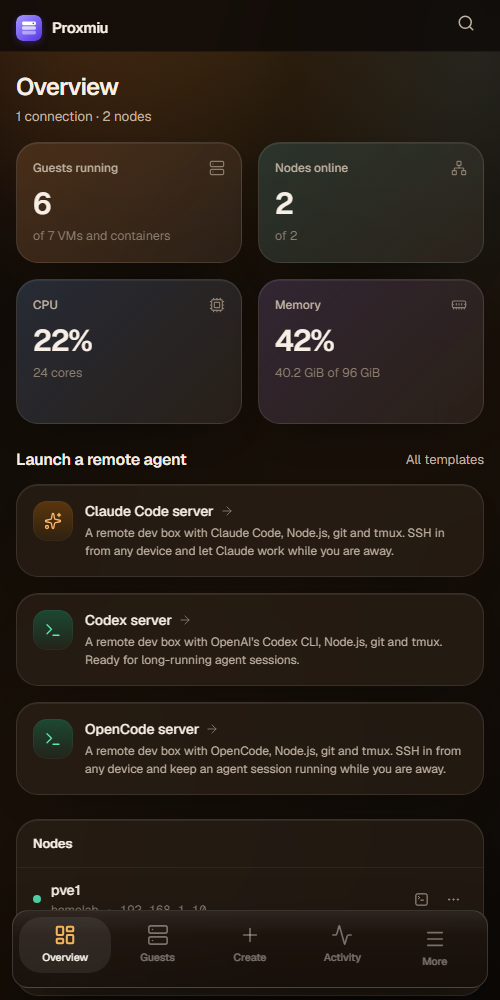
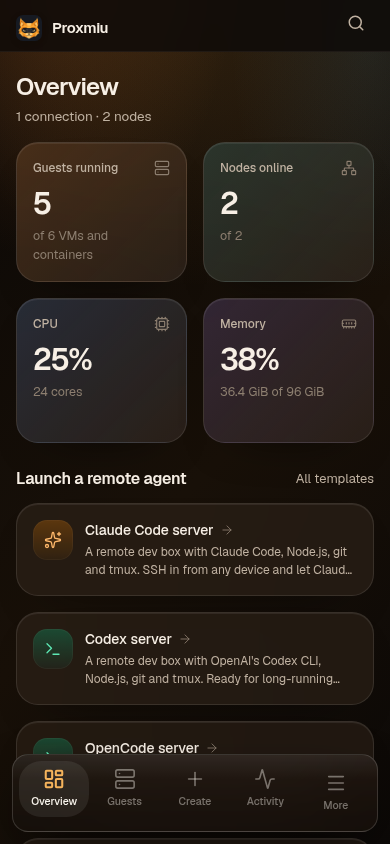
Refresh app screenshots and add hidden lynx mascot

diff --git a/lynx-easter-egg.js b/lynx-easter-egg.js
@@ -1,0 +1,110 @@
+(() => {
+  let clicks = 0
+  let lastClick = 0
+
+  const css = `
+    #proxmiu-lynx { position:fixed; right:max(20px,env(safe-area-inset-right)); bottom:24px; z-index:45; width:184px; color:#f5f1e9; font:13px/1.45 system-ui,sans-serif; animation:lynx-arrive .45s cubic-bezier(.16,1,.3,1) both; }
+    #proxmiu-lynx * { box-sizing:border-box; }
+    #proxmiu-lynx .lynx-message { position:relative; margin:0 0 -5px; padding:12px 30px 12px 14px; border-radius:16px 16px 4px 16px; background:#252a34; box-shadow:0 8px 28px #0003; min-height:60px; }
+    #proxmiu-lynx button { appearance:none; border:0; color:inherit; cursor:pointer; font:inherit; }
+    #proxmiu-lynx button:focus-visible { outline:2px solid #f0a23a; outline-offset:4px; }
+    #proxmiu-lynx .lynx-close { position:absolute; right:5px; top:5px; width:30px; height:30px; padding:7px; border-radius:50%; background:transparent; color:#d5d0c8; }
+    #proxmiu-lynx .lynx-close:hover { background:#ffffff14; }
+    #proxmiu-lynx .lynx-pet { display:block; width:160px; height:152px; padding:0; margin:0 auto; background:transparent; -webkit-tap-highlight-color:transparent; }
+    #proxmiu-lynx .lynx-pet>svg { width:160px; height:150px; overflow:visible; filter:drop-shadow(0 8px 5px #0002); }
+    #proxmiu-lynx .lynx-tail { transform-origin:104px 111px; animation:lynx-tail 3.5s ease-in-out infinite; }
+    #proxmiu-lynx .lynx-head { transform-origin:80px 98px; animation:lynx-nod 5s ease-in-out infinite; }
+    #proxmiu-lynx .lynx-eyes { transform-box:fill-box; transform-origin:center; animation:lynx-blink 5.5s infinite; }
+    #proxmiu-lynx .lynx-led { animation:lynx-led 3s ease-in-out infinite; }
+    #proxmiu-lynx.is-petted .lynx-head { animation:lynx-purr .8s ease-in-out; }
+    #proxmiu-lynx.is-petted .lynx-tail { animation:lynx-tail .35s ease-in-out infinite; }
+    @keyframes lynx-arrive { from { opacity:0; transform:translateY(18px) rotate(3deg); } to { opacity:1; transform:translateY(0) rotate(0); } }
+    @keyframes lynx-tail { 0%,100% { transform:rotate(-8deg); } 50% { transform:rotate(13deg); } }
+    @keyframes lynx-nod { 0%,65%,100% { transform:rotate(0); } 78%,90% { transform:rotate(-5deg) translateY(-2px); } }
+    @keyframes lynx-blink { 0%,43%,47%,100% { transform:scaleY(1); } 45% { transform:scaleY(.08); } }
+    @keyframes lynx-led { 0%,100% { opacity:.65; } 50% { opacity:1; } }
+    @keyframes lynx-purr { 0%,100% { transform:rotate(0); } 25%,75% { transform:rotate(-7deg) translateY(-3px); } 50% { transform:rotate(7deg) translateY(-3px); } }
+    @media(max-width:639px) { #proxmiu-lynx { right:max(16px,env(safe-area-inset-right)); bottom:calc(104px + env(safe-area-inset-bottom)); } #proxmiu-lynx .lynx-close { width:36px; height:36px; top:2px; right:2px; } #proxmiu-lynx .lynx-message { padding-right:38px; } }
+    @media(prefers-reduced-motion:reduce) { #proxmiu-lynx, #proxmiu-lynx * { animation:none !important; transition:none !important; } }
+  `
+
+  function wake(trigger) {
+    const existing = document.getElementById('proxmiu-lynx')
+    if (existing) {
+      existing.querySelector('.lynx-pet').click()
+      return
+    }
+    if (!document.getElementById('proxmiu-lynx-style')) {
+      const style = document.createElement('style')
+      style.id = 'proxmiu-lynx-style'
+      style.textContent = css
+      document.head.append(style)
+    }
+    const panel = document.createElement('aside')
+    panel.id = 'proxmiu-lynx'
+    panel.setAttribute('aria-label', 'Proxmiu lynx')
+    panel.innerHTML = `
+      <p class="lynx-message" role="status">Oh, hi. I live here.</p>
+      <button type="button" class="lynx-close" aria-label="Dismiss lynx"><svg viewBox="0 0 16 16" fill="none" stroke="currentColor" stroke-width="1.7" aria-hidden="true"><path d="m4 4 8 8M12 4l-8 8"/></svg></button>
+      <button type="button" class="lynx-pet" aria-label="Pet the lynx">
+        <svg viewBox="0 0 160 150" fill="none" aria-hidden="true">
+          <ellipse cx="80" cy="136" rx="40" ry="5" fill="#171b23" opacity=".18"/>
+          <g class="lynx-tail"><path d="M105 113c38 4 48-29 31-37" stroke="#e38a24" stroke-width="13" stroke-linecap="round"/><path d="M140 82q0-5-4-6" stroke="#252a34" stroke-width="13" stroke-linecap="round"/></g>
+          <ellipse cx="80" cy="113" rx="33" ry="22" fill="#e38a24"/>
+          <path d="M67 101h26l-5 30H72l-5-30Z" fill="#ffd184"/>
+          <rect x="52" y="117" width="17" height="19" rx="8" fill="#f0a23a"/>
+          <rect x="91" y="117" width="17" height="19" rx="8" fill="#f0a23a"/>
+          <path d="M54 133h13m26 0h13" stroke="#252a34" stroke-width="5" stroke-linecap="round"/>
+          <g class="lynx-head"><g transform="translate(28 7) scale(1.65)">
+            <path d="m12 8 14 14h12L52 8l3 24 5 9-5-1 2 10-6-3-7 9-5-1-7 4-7-4-5 1-7-9-6 3 2-10-5 1 5-9 3-24Z" fill="#f0a23a"/>
+            <path d="m14 15 10 12-11 5 1-17Zm36 0L40 27l11 5-1-17Z" fill="#ffd184"/>
+            <path d="m12 8 14 14 6 11-12-8-8-17Zm40 0L38 22l-6 11 12-8 8-17Z" fill="#ffb640"/>
+            <path d="m19 30 10 3h6l10-3 8 9-7 7-8 2-6-3-6 3-8-2-7-7 8-9Z" fill="#171b23"/>
+            <g class="lynx-eyes"><path d="m17 36 7 2 3 4c-6 1-8-1-10-6Zm30 0-7 2-3 4c6 1 8-1 10-6Z" fill="#ffe1a3"/></g>
+            <rect x="29" y="33" width="6" height="3" rx="1" fill="#54504a"/><rect x="29" y="38" width="6" height="3" rx="1" fill="#54504a"/>
+            <circle class="lynx-led" cx="34" cy="34.5" r="1.2" fill="#39d8c2"/>
+            <path d="m25 48 7 3 7-3-2 7-5 3-5-3-2-7Z" fill="#ffd184"/><path d="m28 49 4 4 4-4h-8Z" fill="#171b23"/>
+          </g></g>
+        </svg>
+      </button>`
+    document.body.append(panel)
+    let purrTimer
+    const dismiss = () => {
+      const restoreFocus = panel.contains(document.activeElement)
+      clearTimeout(purrTimer)
+      panel.remove()
+      document.removeEventListener('keydown', onKey)
+      if (restoreFocus && trigger.isConnected) trigger.focus({ preventScroll: true })
+    }
+    const onKey = (event) => { if (event.key === 'Escape') dismiss() }
+    panel.querySelector('.lynx-close').addEventListener('click', dismiss)
+    panel.querySelector('.lynx-pet').addEventListener('click', () => {
+      panel.querySelector('.lynx-message').textContent = 'Purr. All systems cozy.'
+      panel.classList.add('is-petted')
+      clearTimeout(purrTimer)
+      purrTimer = setTimeout(() => panel.classList.remove('is-petted'), 800)
+    })
+    document.addEventListener('keydown', onKey)
+  }
+
+  document.addEventListener('click', (event) => {
+    if (!(event.target instanceof Element) || event.metaKey || event.ctrlKey || event.altKey || event.shiftKey || event.button !== 0) return
+    const trigger = event.target.closest('[data-lynx-trigger]')
+    if (!trigger) return
+    if (trigger instanceof HTMLAnchorElement) {
+      const target = new URL(trigger.href)
+      if (target.origin === location.origin && target.pathname === location.pathname && !target.hash) {
+        event.preventDefault()
+        if (location.href !== target.href) history.replaceState(null, '', target.href)
+        window.scrollTo({ top: 0, behavior: 'instant' })
+      }
+    }
+    const now = performance.now()
+    clicks = now - lastClick > 1400 ? 1 : clicks + 1
+    lastClick = now
+    if (clicks >= 5) {
+      clicks = 0
+      wake(trigger)
+    }
+  })
+})()

diff --git a/index.html b/index.html
@@ -18,11 +18,11 @@
       property="og:description"
       content="Power actions, browser SSH, and ready-to-use AI dev boxes from templates. Self-hosted on your LAN."
     />
-    <meta property="og:image" content="https://proxmiu.com/screenshots/overview.png?v=8" />
+    <meta property="og:image" content="https://proxmiu.com/screenshots/overview.png?v=9" />
     <meta name="twitter:card" content="summary_large_image" />
     <meta name="twitter:title" content="Proxmiu — manage Proxmox VE from the browser" />
     <meta name="twitter:description" content="Power actions, browser SSH, and ready-to-use AI dev boxes from templates. Self-hosted on your LAN." />
-    <meta name="twitter:image" content="https://proxmiu.com/screenshots/overview.png?v=8" />
+    <meta name="twitter:image" content="https://proxmiu.com/screenshots/overview.png?v=9" />
     <link rel="icon" type="image/svg+xml" href="favicon.svg?v=lynx-1" />
     <link rel="apple-touch-icon" href="apple-touch-icon.png?v=lynx-1" />
     <link rel="stylesheet" href="styles.css" />
@@ -32,7 +32,7 @@
 
     <header class="nav-wrap">
       <nav class="nav">
-        <a class="brand" href="./" aria-label="Proxmiu home">
+        <a class="brand" href="./" aria-label="Proxmiu home" data-lynx-trigger>
           <img src="logo.png" alt="" width="28" height="28" />
           <span>Proxmiu</span>
         </a>
@@ -70,7 +70,7 @@
 
       <section class="hero-stage">
         <div class="hero-shot">
-          <img src="screenshots/overview.png?v=8" alt="Proxmiu overview showing nodes, guests and live resource usage" />
+          <img src="screenshots/overview.png?v=9" alt="Proxmiu overview showing nodes, guests and live resource usage" />
         </div>
       </section>
 
@@ -137,37 +137,37 @@
         </div>
         <div class="shots">
           <figure class="shot-wide">
-            <img src="screenshots/guests.png?v=8" alt="Guest list with live status, addresses and actions" loading="lazy" />
+            <img src="screenshots/guests.png?v=9" alt="Guest list with live status, addresses and actions" loading="lazy" />
             <figcaption><strong>Guests.</strong> Live status, addresses and usage with one-click SSH, reboot and more.</figcaption>
           </figure>
           <figure>
-            <img src="screenshots/create.png?v=8" alt="Creating a Claude Code server from a template" loading="lazy" />
+            <img src="screenshots/create.png?v=9" alt="Creating a Claude Code server from a template" loading="lazy" />
             <figcaption><strong>Create.</strong> A Claude Code server from a template, with every setting adjustable.</figcaption>
           </figure>
           <figure>
-            <img src="screenshots/settings.png?v=8" alt="Proxmiu settings with the SSH key and self-update" loading="lazy" />
+            <img src="screenshots/settings.png?v=9" alt="Proxmiu settings with the SSH key and self-update" loading="lazy" />
             <figcaption><strong>Settings and updates.</strong> Your key, access, and opt-in agent updates in one place.</figcaption>
           </figure>
           <figure class="shot-wide">
-            <img src="screenshots/command-palette.png?v=8" alt="Proxmiu command palette" loading="lazy" />
+            <img src="screenshots/command-palette.png?v=9" alt="Proxmiu command palette" loading="lazy" />
             <figcaption><strong>Command palette.</strong> Jump to any guest, template or page without leaving the keyboard.</figcaption>
           </figure>
           <figure>
-            <img src="screenshots/templates.png?v=8" alt="Proxmiu template gallery" loading="lazy" />
+            <img src="screenshots/templates.png?v=9" alt="Proxmiu template gallery" loading="lazy" />
             <figcaption><strong>Templates.</strong> Built-in AI boxes, custom recipes and Community Scripts.</figcaption>
           </figure>
           <figure>
-            <img src="screenshots/connections.png?v=8" alt="Proxmiu connections and host discovery" loading="lazy" />
+            <img src="screenshots/connections.png?v=9" alt="Proxmiu connections and host discovery" loading="lazy" />
             <figcaption><strong>Connections.</strong> Find Proxmox hosts on your LAN and keep them together.</figcaption>
           </figure>
           <figure class="shot-wide">
-            <img src="screenshots/overview-light.png?v=8" alt="Proxmiu overview in light mode" loading="lazy" />
+            <img src="screenshots/overview-light.png?v=9" alt="Proxmiu overview in light mode" loading="lazy" />
             <figcaption><strong>Light mode.</strong> The same glass language, brightened for daylight.</figcaption>
           </figure>
         </div>
         <div class="mobile-showcase">
-          <img src="screenshots/mobile-overview.png?v=8" alt="Proxmiu on an iPhone: overview" loading="lazy" />
-          <img src="screenshots/mobile-guests.png?v=8" alt="Proxmiu on an iPhone: guests" loading="lazy" />
+          <img src="screenshots/mobile-overview.png?v=9" alt="Proxmiu on an iPhone: overview" loading="lazy" />
+          <img src="screenshots/mobile-guests.png?v=9" alt="Proxmiu on an iPhone: guests" loading="lazy" />
           <div>
             <div class="eyebrow">On the go</div>
             <h3>The homelab in your pocket.</h3>
@@ -260,5 +260,6 @@
     </footer>
 
     <script src="app.js"></script>
+    <script defer src="lynx-easter-egg.js"></script>
   </body>
 </html>

diff --git a/README.md b/README.md
@@ -31,3 +31,9 @@ python3 -m http.server 8080
 - `logo.svg`, `favicon.svg` — simplified vector companions for small sizes.
 
 The [MIT license](LICENSE) from Proxmiu applies.
+
+## A small Easter egg
+
+Click the Proxmiu logo five times in quick succession to wake the lynx. Click the mascot to pet it; dismiss it with Escape or its close button. It respects reduced-motion preferences.
+
+With Node.js and Playwright available, run `node tests/lynx.e2e.cjs` to check the interaction. Set `CHROMIUM_PATH` to use a system Chromium installation.
